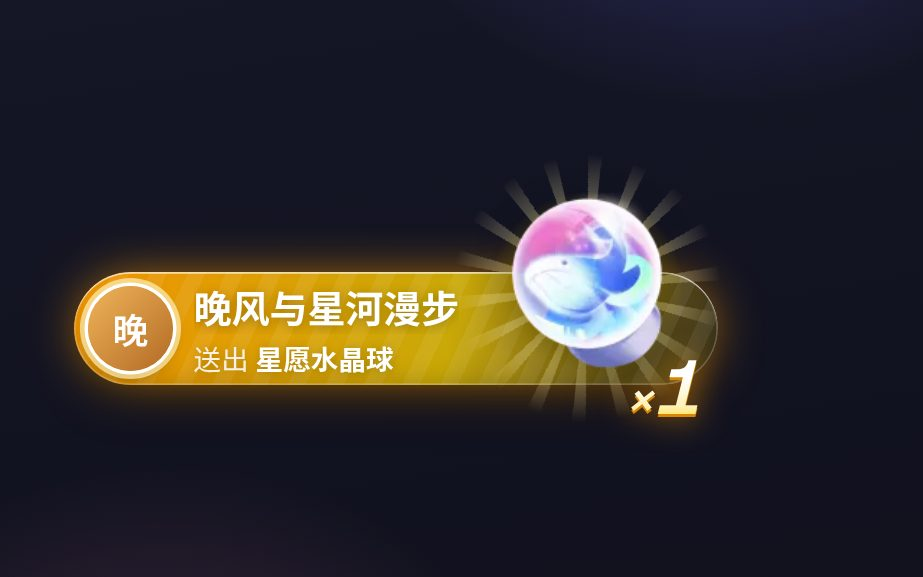
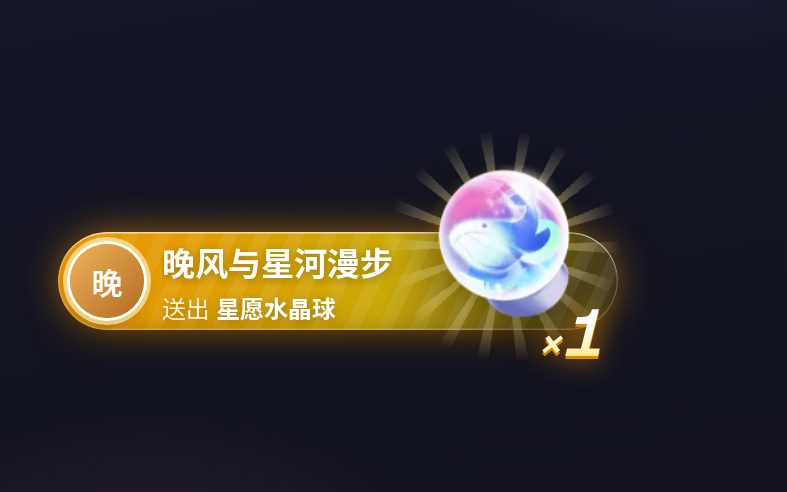
晶耀和晶礼一样大（只多一些碎片）

Changed region(s): [[0.061, 0.2744, 0.7929, 0.7317]]

diff --git a/apps/overlay/src/giftcard.ts b/apps/overlay/src/giftcard.ts
@@ -1,5 +1,5 @@
 // 礼物卡片（晶礼、晶耀）：按价值换颜色（和 B站连击条一样：蓝 → 紫 → 粉 → 金）。晶礼的礼物图后面转着光芒，送出时迸出星光碎片。
-// 晶礼、晶耀都是角落里的一条，晶耀大一些、碎片多一些
+// 晶礼、晶耀都是角落里的一条，晶耀碎片多一些
 import type { PlayItem } from '@starfall/shared/overlay';
 import './giftcard.css';
 import { h } from './dom.ts';
@@ -43,7 +43,7 @@ function burst(cls: string, n: number, dist: [number, number], delay: number): H
   return box;
 }
 
-/** 晶礼：角落里的一条；big 是晶耀（大一些、碎片多一些） */
+/** 晶礼：角落里的一条；big 是晶耀（碎片多一些） */
 export function giftStrip(item: PlayItem, big = false): HTMLElement {
   const n = item.gift?.count ?? 1;
   const img = giftImg(item, 'gc-img');
@@ -56,7 +56,7 @@ export function giftStrip(item: PlayItem, big = false): HTMLElement {
   );
 }
 
-/** 晶耀：和晶礼同一个样子，大一些、碎片多一些（100 元以上本来就是金色那一档） */
+/** 晶耀：和晶礼同一个样子、一样大，碎片多一些（100 元以上本来就是金色那一档） */
 export function giftHero(item: PlayItem): HTMLElement {
   return giftStrip(item, true);
 }

diff --git a/apps/overlay/src/giftcard.css b/apps/overlay/src/giftcard.css
@@ -69,9 +69,6 @@
   100% { opacity: 0; transform: translate(var(--dx), calc(var(--dy) + 70px)) rotate(calc(var(--rot) * 1.4)) scale(.6); }
 }
 
-/* ---------------- 晶耀：和晶礼一样，放大一些 ---------------- */
-.gc.big { zoom: 1.15; }
-
 /* ---------------- 省资源模式：碎片减半、光芒不转 ---------------- */
 .lite .gc-burst i:nth-child(n+8) { display: none; }
 .lite .gc-rays { animation-iteration-count: 1, 0; }

diff --git a/CHANGELOG.md b/CHANGELOG.md
@@ -3,7 +3,7 @@
 ## 未发布
 
 ### 礼物特效
-- 晶礼、晶耀重新设计：彩色渐变横条，按价值变色（10 元以下蓝、10 ~ 50 元紫、50 ~ 100 元粉、100 元以上金，和 B站连击条一样）；礼物图放大、后面转着光芒，送出时迸出星光碎片；数量用大号斜体砸进来，数完再跳一下。晶耀和晶礼同一个样子，大一些、碎片多一些，放在角落，不再占画面中间。不再用毛玻璃，直播软件关了硬件加速时也不卡。
+- 晶礼、晶耀重新设计：彩色渐变横条，按价值变色（10 元以下蓝、10 ~ 50 元紫、50 ~ 100 元粉、100 元以上金，和 B站连击条一样）；礼物图放大、后面转着光芒，送出时迸出星光碎片；数量用大号斜体砸进来，数完再跳一下。晶耀和晶礼同一个样子、一样大，碎片多一些，放在角落，不再占画面中间。不再用毛玻璃，直播软件关了硬件加速时也不卡。
 - 新增内置特效「B站动画」：有 B站全屏动画的礼物（例如极速超跑、告白花束，大多是 5 元以上的）直接播 B站自己的动画，画面上方显示是谁送的、送了几个，时长跟着动画走；没有动画的礼物按价值显示晶耀（100 元以上）或晶礼；动画放不出来时只显示上面那一条。新装的星临默认 10 元以上的两段都用它；已经在用的规则不自动改。直播软件不支持 WebGL 或动画读不出来时，日志里会写明原因。特效页连上时会提前下载礼物面板上的动画，礼物排队时也先下载，轮到时不用现下。
 - 礼物图改用 B站的动图（会动）。礼物标签右上角新增「礼物图用动图」开关，关掉用静态图。
 - 修复：预览礼物特效、「模拟一下」送礼时，不管选的是什么礼物，礼物图都显示成小花花。现在用所选礼物自己的图（礼物面板里查不到就不显示图）。直播时真实送礼一直用的是礼物自己的图，不受影响。

diff --git a/docs/user-guide.md b/docs/user-guide.md
@@ -124,7 +124,7 @@
   |---|---|---|
   | 金銮 / 亭阁 / 门楼 | 东方宫廷 | 总督 / 提督 / 舰长的进场和上舰 |
   | B站动画 | B站自己的礼物全屏动画，上方一条谁送的；没有动画的礼物按价值显示晶耀或晶礼 | 礼物 100 电池（10 元）以上 |
-  | 晶耀 | 和晶礼一样的横条，大一些、星光碎片多一些 | （B站动画里没有动画的 100 元以上礼物） |
+  | 晶耀 | 和晶礼一样的横条，星光碎片多一些 | （B站动画里没有动画的 100 元以上礼物） |
   | 晶礼 | 彩色渐变横条，按价值变色（蓝、紫、粉、金，和 B站连击条一样）；礼物图（动图）放大、后面转着光芒、迸出星光，数量大号斜体砸进来 | （B站动画里没有动画的 10 ~ 100 元礼物） |
   | 晶巡 | 玻璃质感，带「房管」标签 | 房管进场 |
   | 晶语 | 玻璃质感气泡，显示弹幕内容 | 新建弹幕规则时的默认特效 |
